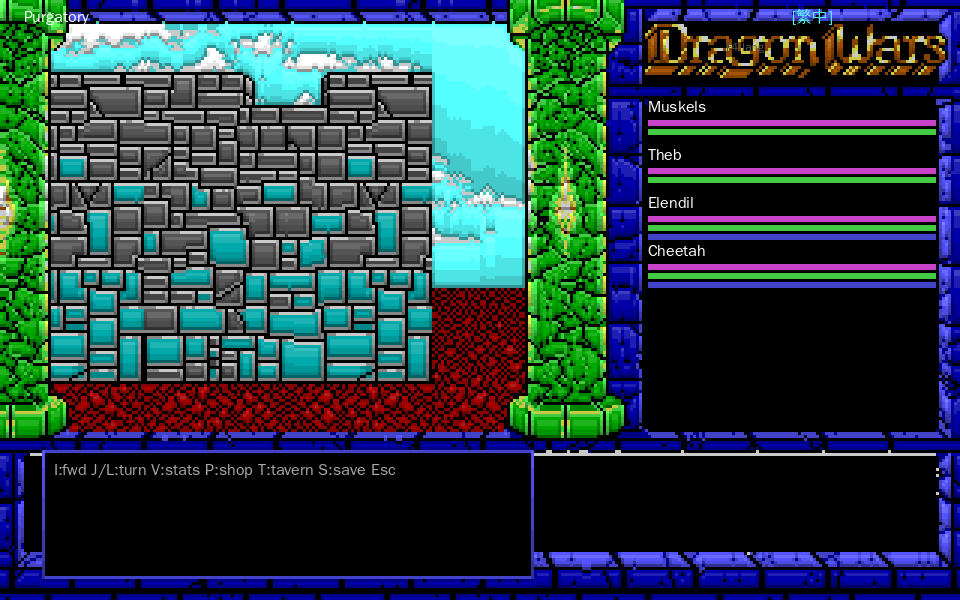
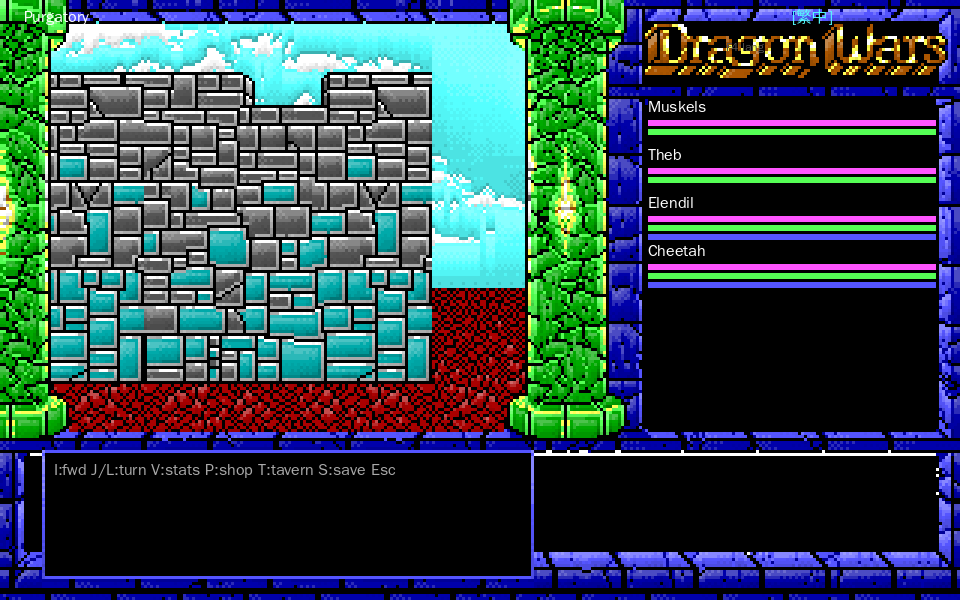
feat(vga256): 精修 256 色增強演算法,牆面浮雕更立體、海面/天空消除條紋 (#165)
精修 VGA-256 主題(只動 src/render/vga256.{hpp,cpp} 與其 docs/showcase),
讓 256 色增強更漂亮、更協調,不破壞辨識度。

演算法改進:
- ramp 明度走非線性曲線(暗階 gamma 1.45、亮階 gamma 0.80)→ 陰影柔不死黑、
  高光立體不過曝;明度感知更自然。
- 浮點累積光照貢獻、最後才量化 → 過渡平滑、無提前跳階。
- 自適應垂直漸層:幅度隨「背景平面程度」bg_flat(min(run,hrun) 判定)衰減,
  物體尺寸滿幅浮雕、大平面(海/天/UI 底)趨平 → 消除背景水平條紋。
- 新增水平微梯度(左亮右暗)→ 牆磚/地形塊方向光體積感。
- 智慧描邊:只壓「更亮鄰色」交界、依明暗差調幅;同色系交界免描邊
  (深藍↔亮藍海波、同材質明暗紋理不被放大成硬條)。
- ordered-dither(Bayer 4×4)打散漸層跨階線,背景過渡呈點狀而非整條橫線。

效果(dump 對照 DOS,目視明顯更立體且不雜亂):
- viewport 石牆每塊浮雕 + 方向光 + 柔描邊;天空平整無條紋;distinct 661→812。
- 世界地圖陸塊立體、海波不被放大;distinct 1917→2843。
- 戰鬥畫面 sprite/背景同步受惠。

誠實標示維持:演算法增強(非手繪)。verify_vga256 既有斷言全數通過,
ctest 全綠 34 項。DOS/Amiga/X68000(16 色路徑)不受影響。

diff --git a/opendw_remake/src/render/vga256.cpp b/opendw_remake/src/render/vga256.cpp
@@ -1,6 +1,7 @@
 #include "render/vga256.hpp"
 
 #include <algorithm>
+#include <cmath>
 
 namespace dw::render {
 
@@ -10,35 +11,40 @@ inline std::uint8_t clamp8(int v) {
   return static_cast<std::uint8_t>(v < 0 ? 0 : (v > 255 ? 255 : v));
 }
 
-// 線性插值 a→b(t/den)。
-inline std::uint8_t lerp(int a, int b, int t, int den) {
-  return clamp8(a + (b - a) * t / den);
+// 浮點插值 a→b(t∈[0,1]),四捨五入。
+inline std::uint8_t lerpf(int a, int b, double t) {
+  return clamp8(static_cast<int>(a + (b - a) * t + 0.5));
 }
 
 // 由一個 DOS 基色生成 16 階 ramp:
-//   shade 0..7  = 原色往黑插值(暗階;0 最暗),shade 8 = 原色,
-//   shade 9..15 = 原色往白插值(亮階;15 最亮)。
-//   暗/亮兩端不插到全黑/全白(留 0.85 比例),避免大色塊失去色相、顯髒。
+//   shade 0..7  = 原色往黑(暗階;0 最暗),shade 8 = 原色,
+//   shade 9..15 = 原色往白(亮階;15 最亮)。
+//   明度走「非線性曲線」而非等步(更自然的明度感知曲線):
+//     暗階用 gamma>1(中段壓得少、靠近最暗才快速變暗)→ 陰影柔、不死黑;
+//     亮階用 gamma<1(高光前段抬升明顯、末端收斂)→ 立體高光但不過曝。
+//   暗/亮兩端不插到全黑/全白(暗端保留 18% 原色、亮端最亮 80% 白),維持色相不顯髒。
 Rgb make_shade(const Rgb& c, int shade) {
   if (shade == 8) return c;
   if (shade < 8) {
-    // 8→0:t = (8-shade)/8,往黑插值(最暗保留 15% 原色,維持色相)。
-    int t = 8 - shade;                  // 1..8
-    Rgb dark{ static_cast<std::uint8_t>(c.r * 15 / 100),
-              static_cast<std::uint8_t>(c.g * 15 / 100),
-              static_cast<std::uint8_t>(c.b * 15 / 100) };
-    return Rgb{ lerp(c.r, dark.r, t, 8),
-               lerp(c.g, dark.g, t, 8),
-               lerp(c.b, dark.b, t, 8) };
+    // t_lin = (8-shade)/8 ∈ (0,1];往黑方向。曲線:t = t_lin^1.45(陰影集中於末端)。
+    double t_lin = (8 - shade) / 8.0;
+    double t = std::pow(t_lin, 1.45);
+    Rgb dark{ static_cast<std::uint8_t>(c.r * 18 / 100),
+              static_cast<std::uint8_t>(c.g * 18 / 100),
+              static_cast<std::uint8_t>(c.b * 18 / 100) };
+    return Rgb{ lerpf(c.r, dark.r, t),
+                lerpf(c.g, dark.g, t),
+                lerpf(c.b, dark.b, t) };
   }
-  // 8→15:t = (shade-8)/7,往(略帶原色的)白插值(高光,最亮 85% 白)。
-  int t = shade - 8;                    // 1..7
-  Rgb bright{ static_cast<std::uint8_t>(c.r + (255 - c.r) * 85 / 100),
-              static_cast<std::uint8_t>(c.g + (255 - c.g) * 85 / 100),
-              static_cast<std::uint8_t>(c.b + (255 - c.b) * 85 / 100) };
-  return Rgb{ lerp(c.r, bright.r, t, 7),
-             lerp(c.g, bright.g, t, 7),
-             lerp(c.b, bright.b, t, 7) };
+  // t_lin = (shade-8)/7 ∈ (0,1];往白方向。曲線:t = t_lin^0.80(高光前段抬升明顯)。
+  double t_lin = (shade - 8) / 7.0;
+  double t = std::pow(t_lin, 0.80);
+  Rgb bright{ static_cast<std::uint8_t>(c.r + (255 - c.r) * 80 / 100),
+              static_cast<std::uint8_t>(c.g + (255 - c.g) * 80 / 100),
+              static_cast<std::uint8_t>(c.b + (255 - c.b) * 80 / 100) };
+  return Rgb{ lerpf(c.r, bright.r, t),
+              lerpf(c.g, bright.g, t),
+              lerpf(c.b, bright.b, t) };
 }
 
 }  // namespace
@@ -56,6 +62,17 @@ const std::array<Rgb, 256>& vga_palette() {
   return pal;
 }
 
+// 4×4 Bayer ordered-dither 矩陣(值 0..15,中心化為 -7.5..+7.5 / 16)。
+//   用途:把連續 shade 量化成 16 階時,以空間抖動打散「整列同階」造成的水平條紋
+//   ——尤其大片背景(海/天)垂直漸層極淺、相鄰列容易跳同一階界,抖動使邊界呈點狀
+//   交錯而非整條橫線,觀感更平整(模擬抗鋸齒/誤差擴散)。
+constexpr int kBayer4[4][4] = {
+  { 0,  8,  2, 10},
+  {12,  4, 14,  6},
+  { 3, 11,  1,  9},
+  {15,  7, 13,  5},
+};
+
 std::array<std::uint8_t, kW * kH> enhance_to_256(const Framebuffer& fb) {
   std::array<std::uint8_t, kW * kH> out{};
   const auto& src = fb.idx;
@@ -71,31 +88,96 @@ std::array<std::uint8_t, kW * kH> enhance_to_256(const Framebuffer& fb) {
       // 黑色(0)維持純黑,不漸層(避免邊框/留白變灰、避免破壞 letterbox 觀感)。
       if (base == 0) { out[y * kW + x] = vga_index(0, 8); continue; }
 
-      // 1) 垂直漸層:量測本像素所在「同色直向連續區段」的高度與在區段內的相對位置,
-      //    由上(亮)到下(暗)鋪一個輕微漸層 → 大色塊產生光照/景深立體感。
+      // 量測本像素所在「同色直向連續區段」高度與相對位置(段頂=亮、段底=暗)。
       int up = 0;
       for (int yy = y - 1; yy >= 0 && at(x, yy) == base; --yy) ++up;
       int down = 0;
       for (int yy = y + 1; yy < kH && at(x, yy) == base; ++yy) ++down;
       int run = up + down + 1;
 
-      int shade = 8;
+      // 同步量測水平連續區段(供雙向梯度與背景判定)。
+      int left = 0;
+      for (int xx = x - 1; xx >= 0 && at(xx, y) == base; --xx) ++left;
+      int right = 0;
+      for (int xx = x + 1; xx < kW && at(xx, y) == base; ++xx) ++right;
+      int hrun = left + right + 1;
+
+      // shadef:以浮點累積各項光照貢獻,最後才量化 → 過渡平滑、無提前跳階。
+      double shadef = 8.0;
+
+      // bg_flat ∈ [0,1]:本像素「屬於大片背景平面」的程度(0=物體/細節,1=超大平面)。
+      //   用 min(run, hrun):真正的平面是兩個維度都大(海面/天空/UI 底);細長條(牆磚柱、
+      //   地形帶)某一維度小 → 不算背景,保留立體漸層。>=96 視為純背景。
+      //   背景程度越高,漸層與抖動越收斂,讓大平面回歸乾淨純色,物體尺寸區保留浮雕。
+      const int span = std::min(run, hrun);
+      double bg_flat = 0.0;
+      if (span > 32) bg_flat = std::min(1.0, (span - 32) / 64.0);
+
+      // 1) 自適應垂直漸層(光照/景深立體感):
+      //    run<4   : 不漸層(小細節維持原色,避免雜訊)。
+      //    run 4..28: 「物體尺寸」(單塊牆磚/地形 tile)→ amp 最強(立體浮雕)。
+      //    run>28  : 大片背景平面 → amp 隨 bg_flat 衰減趨近 0,避免整片背景被鋪漸層
+      //              而出現水平條紋。
       if (run >= 4) {
-        // rel 0(段頂)→ +2 高光;rel 1(段底)→ -2 陰影。中段平滑過渡。
-        // 只有夠大的色塊才施加(run>=4),小細節維持原色避免雜訊。
-        double rel = static_cast<double>(up) / (run - 1);   // 0..1
-        shade = 8 + static_cast<int>((0.5 - rel) * 4.0 + (rel < 0.5 ? 0.5 : -0.5));
+        double rel = static_cast<double>(up) / (run - 1);   // 0(頂)..1(底)
+        double amp = 2.2 * (1.0 - 0.55 * bg_flat);          // 物體 2.2 → 純背景 ≈1.0
+        double s = rel * rel * (3.0 - 2.0 * rel);           // smoothstep:過渡更柔
+        shadef += (0.5 - s) * 2.0 * amp;                    // 頂 +amp、底 -amp
       }
 
-      // 2) 邊緣壓暗:與相鄰(上下左右)異色交界處再壓暗一階 → 描邊/柔邊立體感。
-      bool edge = false;
-      if (x > 0      && at(x - 1, y) != base) edge = true;
-      if (x < kW - 1 && at(x + 1, y) != base) edge = true;
-      if (y > 0      && at(x, y - 1) != base) edge = true;
-      if (y < kH - 1 && at(x, y + 1) != base) edge = true;
-      if (edge) shade -= 2;
+      // 2) 水平微梯度(僅在「物體尺寸」橫段施加):左略亮、右略暗,
+      //    與垂直漸層合成出柔和的方向光,讓牆磚/地形塊更有體積感、不死板。
+      if (hrun >= 4 && hrun <= 28) {
+        double relx = static_cast<double>(left) / (hrun - 1);  // 0..1
+        shadef += (0.5 - relx) * 1.1;                          // ±0.55
+      }
 
-      shade = std::clamp(shade, 0, 15);
+      // 3) 智慧描邊(立體感、柔邊):只在與「更亮鄰色」交界處壓暗(模擬該方向受光、
+      //    本塊在其陰影側),與更暗鄰色交界則不壓——避免兩塊深色交界出現雙重黑線、
+      //    避免大片背景被自身內部 tile 接縫切成格。壓暗幅度依鄰色明暗差調節。
+      auto luma16 = [](std::uint8_t b) {
+        const Rgb& c = kDosPalette[b & 0x0F];
+        return c.r + c.g + c.b;
+      };
+      // 同色系判定:兩色色相方向接近(僅明度不同),如深藍↔亮藍、深綠↔亮綠。
+      //   海波(深藍/亮藍隔列交替)、同材質明暗紋理屬此類,不該被當「物體交界」描邊
+      //   ——否則同色系明度交替會被描邊放大成硬條紋。用歸一化向量夾角(整數近似)判定。
+      auto same_family = [](std::uint8_t a, std::uint8_t b) {
+        const Rgb& ca = kDosPalette[a & 0x0F];
+        const Rgb& cb = kDosPalette[b & 0x0F];
+        long dot = (long)ca.r * cb.r + (long)ca.g * cb.g + (long)ca.b * cb.b;
+        long na  = (long)ca.r * ca.r + (long)ca.g * ca.g + (long)ca.b * ca.b;
+        long nb  = (long)cb.r * cb.r + (long)cb.g * cb.g + (long)cb.b * cb.b;
+        if (na == 0 || nb == 0) return false;            // 黑不歸任何色系
+        // cos^2 >= 0.94 ⇔ dot^2 >= 0.94 * na * nb(夾角 <≈14°,同色相不同明度)。
+        return (double)dot * dot >= 0.94 * (double)na * nb;
+      };
+      const int self_l = luma16(base);
+      double edge_dark = 0.0;
+      auto consider = [&](int nx, int ny) {
+        if (nx < 0 || nx >= kW || ny < 0 || ny >= kH) return;
+        std::uint8_t nb = at(nx, ny);
+        if (nb == base) return;
+        if (same_family(base, nb)) return;    // 同色系明暗紋理不描邊(海波、漸層材質)
+        int d = luma16(nb) - self_l;          // 鄰色比自己亮多少
+        if (d > 0) edge_dark = std::max(edge_dark, std::min(2.0, d / 220.0 + 0.6));
+      };
+      consider(x - 1, y); consider(x + 1, y);
+      consider(x, y - 1); consider(x, y + 1);
+      shadef -= edge_dark;
+
+      // 4) ordered-dither:量化前加入空間抖動,打散漸層的水平跳階線(見 kBayer4 註解)。
+      //    幅度 = 基礎 ±0.30 階 ×(1 - bg_flat):只在「物體尺寸」漸層區作用(那裡才有跨階
+      //    需打散);純背景平面 bg_flat→1 使抖動→0,避免大平面被點上規律顆粒。
+      //    邊緣像素(描邊)不抖,保描邊乾淨。
+      if (edge_dark == 0.0) {
+        // 全域保留適中抖動(物體區滿幅、純背景仍 0.55 倍):把殘留的淡漸層跨階邊界
+        // 打散成點狀交錯而非整條橫線 → 海面/天空條紋消解,同時維持色深擴展。
+        double d = ((kBayer4[y & 3][x & 3] / 15.0) - 0.5) * 0.85 * (1.0 - 0.45 * bg_flat);
+        shadef += d;
+      }
+
+      int shade = std::clamp(static_cast<int>(std::lround(shadef)), 0, 15);
       out[y * kW + x] = vga_index(base, shade);
     }
   }

diff --git a/opendw_remake/docs/reference/62_VGA256_THEME.md b/opendw_remake/docs/reference/62_VGA256_THEME.md
@@ -38,11 +38,22 @@ framebuffer 上做 **post-process pass**,而非離線重畫不存在的 tile bit
 
 - `render/vga256.{hpp,cpp}`(deep module):
   - `vga_palette()`:256 色盤 = 16 DOS 基色 × 16 階 ramp。`[base*16 + s]`,`s=8 ≈ 原 DOS 色`,
-    `s<8` 漸暗(往黑插值,最暗保留 15% 原色維持色相)、`s>8` 漸亮(往白插值,高光)。
-  - `enhance_to_256(fb)`:讀 16 色 framebuffer,逐像素依局部脈絡選 shade 輸出 256 色索引——
-    - **垂直漸層**:量測本像素所在「同色直向連續區段」高度,區段 ≥4 像素時由上(亮)到下(暗)
-      鋪輕微漸層 → 大色塊出現光照/景深立體感。小細節(run<4)維持原色,避免雜訊。
-    - **邊緣壓暗**:與上下左右相鄰異色交界處再壓暗一階 → 描邊/柔邊立體感。
+    `s<8` 漸暗、`s>8` 漸亮。**明度走非線性曲線**(感知更自然):暗階用 gamma 1.45(陰影集中於
+    末端、中段壓得少 → 陰影柔不死黑)、亮階用 gamma 0.80(高光前段抬升明顯、末端收斂 → 立體
+    高光不過曝);暗端保留 18% 原色、亮端最亮 80% 白,維持色相不顯髒。
+  - `enhance_to_256(fb)`:讀 16 色 framebuffer,逐像素以浮點累積各項光照貢獻、最後才量化
+    (過渡平滑、無提前跳階)輸出 256 色索引——
+    - **自適應垂直漸層**:量測「同色直向連續區段」高度,區段 ≥4 像素時以 smoothstep 由上(亮)
+      到下(暗)鋪漸層 → 立體浮雕。幅度隨「背景平面程度」`bg_flat`(由 `min(run,hrun)` 判定)
+      衰減:物體尺寸(單塊牆磚/地形 tile)滿幅、大片背景平面(海面/天空/UI 底)趨平 → 避免整片
+      背景被鋪強漸層而出現水平條紋。小細節(run<4)維持原色,避免雜訊。
+    - **水平微梯度**:物體尺寸橫段左略亮、右略暗,與垂直漸層合成柔和方向光 → 牆磚/地形塊更有
+      體積感。
+    - **智慧描邊**:只在與「更亮鄰色」交界處壓暗(模擬受光方向的陰影側),幅度依明暗差調節;
+      與更暗鄰色不壓(免雙重黑線)。**同色系交界免描邊**(色相方向接近、僅明度差,如深藍↔亮藍
+      的海波、同材質明暗紋理)→ 不把材質內部明暗交替放大成硬條紋。
+    - **ordered-dither(Bayer 4×4)**:量化前加入空間抖動打散漸層的水平跳階線,使背景過渡呈點狀
+      交錯而非整條橫線(抗鋸齒概念);幅度隨 `bg_flat` 收斂、描邊像素不抖(保描邊乾淨)。
     - 黑色(base 0)維持純黑不漸層(避免邊框/letterbox 變灰)。
 - `render/sdl_video`:`set_vga256(bool)` 開關 256 色路徑;`compose()` 依旗標選 16 色或 256 色
   轉換。`set_palette()` 會同時關閉 256(切回 16 色路徑),確保 DOS/Amiga/X68000 永遠走原本
@@ -64,11 +75,14 @@ framebuffer 上做 **post-process pass**,而非離線重畫不存在的 tile bit
 
 | 畫面 | 16 色(DOS) | 256 色(VGA)增強 |
 |---|---|---|
-| 第一人稱 viewport(`--fp`) | flat 灰磚牆 / cyan tile / 紅地 / 綠柱 | 每塊磚有上高光下陰影 + 暗邊 → 石材立體浮雕;天空漸層、雲柔邊;綠柱有立體感 |
-| 世界地圖(`--automap 0`) | flat 綠陸 / flat 藍海 | 陸塊內亮外暗 + 海岸暗邊;海面景深漸層;地點標記倒角 |
+| 第一人稱 viewport(`--fp`) | flat 灰磚牆 / cyan tile / 紅地 / 綠柱 | 每塊磚有上高光下陰影 + 左亮右暗方向光 + 柔描邊 → 石材立體浮雕;天空平整(無條紋)、雲柔邊;綠柱/藍框立體感 |
+| 世界地圖(`--automap 0`) | flat 綠陸 / 藍海(資料層含海波紋理) | 陸塊內亮外暗 + 海岸暗邊;海面同色系免描邊 → 不放大海波條紋;地點標記倒角 |
 | 室內小地圖(`--automap 1`) | 小色塊 | 增強仍套用,但大片留白 → 漲幅小(viewport 最有感) |
 
-distinct 顏色數(像素層+文字層):viewport 661→797、世界地圖 1917→2931。
+distinct 顏色數(像素層+文字層):viewport 661→812、世界地圖 1917→2843。
+
+> 海面的深淺水平紋理來自 `worldmap.cpp` 資料層的「海波」設計(深藍/亮藍隔列交替,DOS 16 色版即有),
+> 非本 256 增強產生;增強已透過「同色系免描邊」避免將其放大成硬條紋。
 
 最有感:viewport 牆面與世界地圖地形(大片同色區);稀疏小地圖漲幅最小(設計使然,
 小細節刻意不漸層以避雜訊)。
